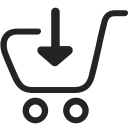
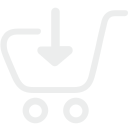
changed color scheme

Changed region(s): [[0.0, 0.0625, 1.0, 0.9688], [0.2812, 0.0312, 0.5938, 0.5312]]

diff --git a/index.html b/index.html
@@ -9,9 +9,9 @@
     <link href="./css/animate.css" rel="stylesheet" type="text/css" />
     <link rel="stylesheet" href="https://stackpath.bootstrapcdn.com/bootstrap/4.3.1/css/bootstrap.min.css"
         integrity="sha384-ggOyR0iXCbMQv3Xipma34MD+dH/1fQ784/j6cY/iJTQUOhcWr7x9JvoRxT2MZw1T" crossorigin="anonymous">
-<!--FOR Applications sections -->
-                      <link rel="stylesheet" href="css/templatemo-style.css" />        
-                     <link rel="stylesheet" href="css/all.min.css" />
+    <!--FOR Applications sections -->
+    <link rel="stylesheet" href="css/templatemo-style.css" />
+    <link rel="stylesheet" href="css/all.min.css" />
 
     <script src="https://ajax.googleapis.com/ajax/libs/webfont/1.6.26/webfont.js" type="text/javascript"></script>
     <script type="text/javascript">
@@ -230,9 +230,11 @@
             </div>
         </div>
     </div>
+
+    <hr />
+
     <div class="image-section" data-ix="fade-in-on-scroll">
         <div class="image-section-overlay color">
-            <hr>
             <div class="container w-container">
                 <div class="section-title-wrapper">
                     <h2 data-ix="fade-in-on-scroll" class="section-title">What We Do</h2>
@@ -279,58 +281,65 @@
             </div>
         </div>
     </div>
-     <h2 data-ix="fade-in-on-scroll" class="section-title">Industry Applications</h2>
-     <div data-ix="fade-in-on-scroll" class="row" id="tmFeatures">
-                        
-          <div class="animated zoomIn col-lg-4">
+
+    <hr />
+
+    <h2 data-ix="fade-in-on-scroll" class="section-title">Industry Applications</h2>
+    <div data-ix="fade-in-on-scroll" class="row" id="tmFeatures">
+
+        <div class="animated zoomIn col-lg-4">
 
             <div class="tm-bg-white-transparent tm-feature-box">
-            <h3 class="tm-feature-name">Customer Feedback Systems</h3>
-            
-            <div class="tm-feature-icon-container">
-                <i class="fas fa-3x fa-server"></i>
-            </div>
+                <h3 class="tm-feature-name">Customer Feedback Systems</h3>
 
-            <p class="text-center">Automate your feedback systems and collecting it in realtime by analyzing visual and audio data.</p>
-            </div>
-          </div>
+                <div class="tm-feature-icon-container">
+                    <i class="fas fa-3x fa-server"></i>
+                </div>
 
-          <div class="animated zoomIn col-lg-4">
+                <p class="text-center">Automate your feedback systems and collecting it in realtime by analyzing visual
+                    and audio data.</p>
+            </div>
+        </div>
+
+        <div class="animated zoomIn col-lg-4">
             <div class="tm-bg-white-transparent tm-feature-box">
                 <h3 class="tm-feature-name">Education</h3>
 
                 <div class="tm-feature-icon-container">
                     <i class="fas fa-3x fa-headphones"></i>
                 </div>
-                <p class="text-center">Sentiment analysis based solutions to improve teacher involvement as well as an effective feedback monitoring system.
+                <p class="text-center">Sentiment analysis based solutions to improve teacher involvement as well as an
+                    effective feedback monitoring system.
                 </p>
             </div>
-          </div>
+        </div>
 
-          <div class="animated zoomIn col-lg-4">
+        <div class="animated zoomIn col-lg-4">
             <div class="tm-bg-white-transparent tm-feature-box">
                 <h3 class="tm-feature-name">Telecom</h3>
 
                 <div class="tm-feature-icon-container">
                     <i class="fas fa-3x fa-satellite-dish"></i>
                 </div>
-                <p class="text-center">Improving telecom services by analyzing the audio data generated and predicting the future variables.
+                <p class="text-center">Improving telecom services by analyzing the audio data generated and predicting
+                    the future variables.
                 </p>
             </div>
-          </div>
+        </div>
 
-            <div class="animated zoomIn col-lg-4" style="padding-top: 10px;">
+        <div class="animated zoomIn col-lg-4" style="padding-top: 10px;">
             <div class="tm-bg-white-transparent tm-feature-box">
                 <h3 class="tm-feature-name">Health Care</h3>
 
                 <div class="tm-feature-icon-container">
                     <i class="fas fa-3x fa-medkit"></i>
                 </div>
-                <p class="text-center"> Sentiment Analysis can help people with problems pertaining to Emotional Intelligence. 
+                <p class="text-center"> Sentiment Analysis can help people with problems pertaining to Emotional
+                    Intelligence.
                 </p>
             </div>
-          </div>
-               <div class="animated zoomIn col-lg-4" style="padding-top: 10px;">
+        </div>
+        <div class="animated zoomIn col-lg-4" style="padding-top: 10px;">
             <div class="tm-bg-white-transparent tm-feature-box">
                 <h3 class="tm-feature-name">Smart Marketing Campaigns</h3>
 
@@ -340,8 +349,8 @@
                 <p class="text-center">You are NOT allowed to redistribute this template on any download site.
                 </p>
             </div>
-          </div>
-          <div class="animated zoomIn col-lg-4" style="padding-top: 10px;">
+        </div>
+        <div class="animated zoomIn col-lg-4" style="padding-top: 10px;">
             <div class="tm-bg-white-transparent tm-feature-box">
                 <h3 class="tm-feature-name">Law Enforcement</h3>
 
@@ -351,10 +360,11 @@
                 <p class="text-center">AI based cameras allow real-time detection of potential threats.
                 </p>
             </div>
-          </div>
         </div>
-        <!-----
-        -->
+    </div>
+
+    <hr />
+
     <div class="section">
         <div class="w-container">
             <div class="section-title-wrapper">
@@ -401,47 +411,49 @@
         </div>
     </div>
 
-     <!-- About -->
-        <section data-ix="fade-in-on-scroll" class="row" id="tmAbout">
-          <header class="col-12 tm-about-header">
+    <hr />
+
+    <section data-ix="fade-in-on-scroll" class="row" id="tmAbout">
+        <header class="col-12 tm-about-header">
             <h2 data-ix="fade-in-on-scroll" class="text-uppercase text-center tm-about-page-title">Our Goals</h2>
-    
-          </header>
-          <div class="animated zoomIn col-lg-4">
-            <div class="tm-bg-black-transparent tm-about-box">
-              <div class="tm-about-number-container">0.1</div>              
-              <h3 class="">Revolutionizing Health Care </h3>
-              <p class="tm-about-description">
-                Our state of the art AI Technology can tackle problems like Autism.
-              </p>
-              <a href="#tmFeatures" class="btn btn-tertiary tm-btn-app-feature">More</a>
-            </div>
-          </div>
 
-          <div class="animated zoomIn col-lg-4">
+        </header>
+        <div class="animated zoomIn col-lg-4">
             <div class="tm-bg-black-transparent tm-about-box">
-              <div class="tm-about-number-container">0.2</div>              
-              <h3 class="">A Paradigm Shift in Business </h3>
-              <p class="tm-about-description">
-               Our analytics based Marketing and Business development kits provide the best to our clients, giving them unique insights on their target audience.
-              </p>
-              <a href="#tmFeatures" class="btn btn-tertiary tm-btn-app-feature">More</a>
+                <div class="tm-about-number-container">0.1</div>
+                <h3 class="">Revolutionizing Health Care </h3>
+                <p class="tm-about-description">
+                    Our state of the art AI Technology can tackle problems like Autism.
+                </p>
+                <a href="#tmFeatures" class="btn btn-tertiary tm-btn-app-feature">More</a>
             </div>
-          </div>
+        </div>
 
-          <div class="animated zoomIn col-lg-4">
+        <div class="animated zoomIn col-lg-4">
             <div class="tm-bg-black-transparent tm-about-box">
-              <div class="tm-about-number-container">0.3</div>              
-              <h3 class="">Revolutionizing Public Campaigns and Governance</h3>
-              <p class="tm-about-description">
-                Knowing the needs of your voters and constituents is a key pillar for public policies, 
-                a wide array of AI based analytics solutions help you cut through the noise.
-              </p>
-         
-              <a href="#tmFeatures" class="btn btn-tertiary tm-btn-app-feature">More</a>
+                <div class="tm-about-number-container">0.2</div>
+                <h3 class="">A Paradigm Shift in Business </h3>
+                <p class="tm-about-description">
+                    Our analytics based Marketing and Business development kits provide the best to our clients, giving
+                    them unique insights on their target audience.
+                </p>
+                <a href="#tmFeatures" class="btn btn-tertiary tm-btn-app-feature">More</a>
             </div>
-          </div>
-        </section>
+        </div>
+
+        <div class="animated zoomIn col-lg-4">
+            <div class="tm-bg-black-transparent tm-about-box">
+                <div class="tm-about-number-container">0.3</div>
+                <h3 class="">Revolutionizing Public Campaigns and Governance</h3>
+                <p class="tm-about-description">
+                    Knowing the needs of your voters and constituents is a key pillar for public policies,
+                    a wide array of AI based analytics solutions help you cut through the noise.
+                </p>
+
+                <a href="#tmFeatures" class="btn btn-tertiary tm-btn-app-feature">More</a>
+            </div>
+        </div>
+    </section>
     <div class="dark-bottom-footer" data-ix="fade-in-on-scroll">
         <div class="container w-container">
             <div class="footer-row-bottom w-row">

diff --git a/webflow.min.css b/webflow.min.css
@@ -14,8 +14,17 @@ html {
 }
 
 body {
+    height: 100%;
+    background-color: #221e3e !important;
+    font-size: 15px;
+    line-height: 23px;
     margin: 0;
-    min-height: 100%
+    min-height: 100%;
+}
+
+body * {
+    border-color: #695dbe !important;
+    color: #fff !important;
 }
 
 article,aside,details,figcaption,figure,footer,header,hgroup,main,menu,nav,section,summary {
@@ -96,7 +105,8 @@ svg:not(:root) {
 
 hr {
 border: 0;
-border-top: 1px solid #777 !important;
+border-top: 2px solid;
+border-width: 2px !important;
 margin-bottom: 50px !important;
 }
 
@@ -1977,13 +1987,6 @@ a,h3 {
     display: none!important
 }
 
-body {
-    height: 100%;
-    color: #000 !important;
-    font-size: 15px;
-    line-height: 23px
-}
-
 h1 {
     margin-top: 0;
     margin-bottom: 20px;
@@ -2077,8 +2080,8 @@ figcaption {
     box-shadow: 0 0 33px 0 rgba(0,0,0,.2)
 }
 
-.nav-link,.nav-link:hover {
-    background-color: transparent
+.nav-link:hover {
+    background-color: #433c76;
 }
 
 .logo-block {
@@ -2308,7 +2311,7 @@ figcaption {
     padding-left: 25px;
     border: 1px solid gray;
     border-radius: 3px;
-    background-color: #666;
+    background-color: #7b6ed7;
     -webkit-transition: border .2s ease;
     transition: border .2s ease;
     font-size: 12px;
@@ -2857,7 +2860,7 @@ figcaption {
     margin-right: 3px;
     margin-left: 3px;
     border-radius: 3px 3px 0 0;
-    background-color: #777;
+    background-color: #433c76;
     transition: background-color .2s ease;
     color: #fff;
     font-size: 13px;
@@ -2865,12 +2868,12 @@ figcaption {
 }
 
 .tchnology-tab-button:hover {
-    background-color: #aaa;
+    background-color:#7b6ed7;
 }
 
 .tchnology-tab-button.w--current {
     border-radius: 3px 3px 0 0;
-    background-color: #129616;
+    background-color: #7b6ed7;
     color: #fff
 }
 
@@ -6754,7 +6757,7 @@ figcaption {
     margin-bottom: 30px;
     padding: 45px;
     border-radius: 100px;
-    background-color: hsla(0, 0%, 66%, 0.71);
+    background-color: rgba(255, 255, 255, 0.2);
     text-align: center
 }
 
@@ -7012,10 +7015,6 @@ figcaption {
 .text-block-2 {
     color: #4e4e4e;
     font-size: 14px
-}
-
-.row {
-    border-top: 1px solid #d0d0d0
 }
 
 .div-block-13,.image-11 {

diff --git a/css/templatemo-style.css b/css/templatemo-style.css
@@ -56,7 +56,7 @@ small {
 }
 
 .tm-bg-white-transparent {
-     background-color: rgb(102, 102, 102);
+     background-color: rgba(255, 255, 255, 0.2);
 }
 
 .tm-brand-row {
@@ -252,7 +252,7 @@ small {
 .tm-feature-icon-container {
   width: 110px;
   height: 110px;
-  border: 1px solid #3E3F40;
+  border: 1px solid #fff !important;
   border-radius: 50%;  
   display: flex;
   align-items: center;
@@ -329,13 +329,13 @@ p {
 }
 
 .btn-tertiary {
-  background-color: #006868;
+  background-color: #7b6ed7;
   color: white;
   padding: 10px 60px;
 }
 
 .btn-tertiary:hover {
-  background-color: #099f9f;
+  background-color: #000;
   color: white;
 }
 
@@ -377,7 +377,7 @@ p {
 }
 
 .tm-bg-black-transparent {
-  background-color: rgba(15, 29, 32, 0.76);
+  background-color: rgba(255, 255, 255, 0.2);
   color: white;
 }
 
@@ -389,7 +389,7 @@ p {
   width: 83px;
   height: 83px;
   font-size: 2.2rem;
-  border: 1px solid white;
+  border: 1px solid white !important;
   display: flex;
   align-items: center;
   justify-content: center;
